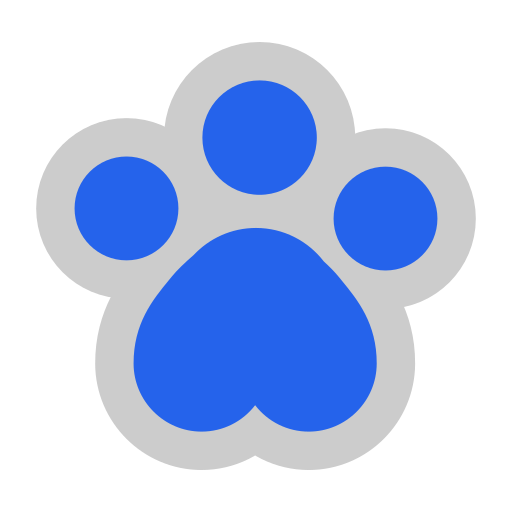
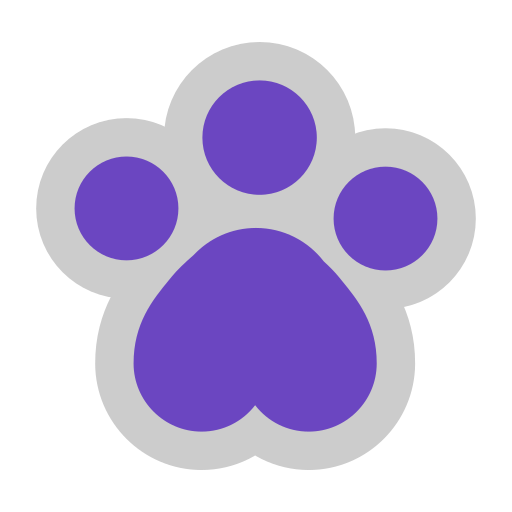
Team scenes: players in full kit (shorts and socks); watermark paw in brand purple

diff --git a/lib/collections/sports-teams.ts b/lib/collections/sports-teams.ts
@@ -232,6 +232,40 @@ export function teamByPath(path: string): SportsTeam | null {
   return SPORTS_TEAMS.find(t => t.league === league && t.slug === slug) ?? null;
 }
 
+/**
+ * Traditional home shorts and socks of the football teams, so players in a whole-scene recolour
+ * wear the full kit (the pet only wears the shirt). Colours only; check against the current kits
+ * if a team changes.
+ */
+const FOOTBALL_KIT: Record<string, { shorts: string; socks: string }> = {
+  arsenal: { shorts: 'white', socks: 'white' },
+  'aston-villa': { shorts: 'white', socks: 'sky-blue' },
+  bournemouth: { shorts: 'black', socks: 'black' },
+  brentford: { shorts: 'black', socks: 'red' },
+  brighton: { shorts: 'white', socks: 'white' },
+  chelsea: { shorts: 'royal-blue', socks: 'white' },
+  'coventry-city': { shorts: 'sky-blue', socks: 'sky-blue' },
+  'crystal-palace': { shorts: 'blue', socks: 'blue' },
+  everton: { shorts: 'white', socks: 'white' },
+  fulham: { shorts: 'black', socks: 'white' },
+  'hull-city': { shorts: 'black', socks: 'amber' },
+  'ipswich-town': { shorts: 'white', socks: 'blue' },
+  'leeds-united': { shorts: 'white', socks: 'white' },
+  liverpool: { shorts: 'red', socks: 'red' },
+  'manchester-city': { shorts: 'white', socks: 'sky-blue' },
+  'manchester-united': { shorts: 'white', socks: 'black' },
+  'newcastle-united': { shorts: 'black', socks: 'black' },
+  'nottingham-forest': { shorts: 'white', socks: 'red' },
+  sunderland: { shorts: 'black', socks: 'red' },
+  'tottenham-hotspur': { shorts: 'navy', socks: 'white' },
+};
+
+/** "red shirt with white trim, red shorts and red socks" for players; the shirt alone otherwise */
+export function playerKit(t: SportsTeam): string {
+  const k = t.league === 'premier-league' ? FOOTBALL_KIT[t.slug] : undefined;
+  return k ? `${t.kit}, ${k.shorts} shorts and ${k.socks} socks` : t.kit;
+}
+
 const withArticle = (s: string) => `${/^[aeiou]/i.test(s) ? 'an' : 'a'} ${s}`;
 const NO_MARKS_SCENE = 'No club crests, badges, sponsor names, kit-maker logos or league patches anywhere in the picture: not on the pet, the players or the fans. All fabric is plain apart from colours, stripes and the shirt lettering.';
 
@@ -246,7 +280,7 @@ export function sceneRecolour(t: SportsTeam, pets = 1): string {
   return [
     `Recolour this whole ${sport} scene to ${t.short} colours (${colours}).`,
     `${whose} ${t.league === 'premier-league' ? 'shirt' : 'kit'} becomes ${withArticle(t.kit.replace(/^(an?|the)\s+/i, ''))}, keeping the same cut, collar, folds and fit${pets > 1 ? ', all in the same kit' : ''}; a scarf, if there is one, takes ${colours} bar stripes.`,
-    `Every player in the picture wears the same ${t.short} kit. Fans in the crowd wear ${t.short} shirts and scarves in ${colours}; flags and banners are in ${colours} too.`,
+    `Every player in the picture wears the full ${t.short} kit: ${playerKit(t)}, all exactly the same, with no players in any other colours. Fans in the crowd wear ${t.short} shirts and scarves in ${colours}; flags and banners are in ${colours} too.`,
     `Keep any name and number on the pet's shirt exactly as they are (same letters, digits, font, size and position), recoloured to a colour from ${colours} that stands out clearly against the new shirt (on stripes, a thin outline in the other team colour is fine). The lettering stays painted with the same loose brushwork and soft edges as the rest of the picture, bending with the fabric; it must not look crisp, printed or pasted on.`,
     `Keep every animal exactly as it is (breed, face, fur, markings, expression, pose and place in the picture), and keep the stadium, lighting, composition and painting style unchanged. Change only the colours of clothing, scarves and flags.`,
     NO_MARKS_SCENE,

diff --git a/lib/watermark.ts b/lib/watermark.ts
@@ -3,19 +3,19 @@
  * (rather than one large mark in the middle). Client-safe.
  *
  * Cloudinary layer, sized relative to the picture so every size looks the same:
- *   l_<paw>.png    the blue site paw, right way up (scripts/upload-watermark-paw.ts uploads it)
+ *   l_<paw>.png    the brand-purple site paw (#6B46C1), right way up (scripts/upload-watermark-paw.ts uploads it)
  *   c_scale        each paw ~7% of the picture's width (the PNG has a little padding round it)
  *   c_mpad         spacing between paws (20% × 14% of the width). mpad, not pad: pad scales the
  *                  paw up to fill the space, which made the paws ~3× too big
  *   a_-20          a slight tilt
  *   fl_tiled       repeated over the whole picture
  * Tune with CLOUDINARY_WATERMARK_TILE_OPACITY (default 18), _TILE_SIZE (0.07), _TILE_GAP (0.2),
- * and CLOUDINARY_WATERMARK_TILE_ID (default pawtraits_watermark_paw).
+ * and CLOUDINARY_WATERMARK_TILE_ID (default pawtraits_watermark_paw_purple).
  */
 const num = (v: string | undefined, d: number) => { const n = Number(v); return Number.isFinite(n) && n > 0 ? n : d; };
 
 export function watermarkTiles(): string {
-  const id = (process.env.CLOUDINARY_WATERMARK_TILE_ID || 'pawtraits_watermark_paw').replace(/\//g, ':').replace(/\.(png|svg|jpg)$/i, '');
+  const id = (process.env.CLOUDINARY_WATERMARK_TILE_ID || 'pawtraits_watermark_paw_purple').replace(/\//g, ':').replace(/\.(png|svg|jpg)$/i, '');
   const opacity = Math.round(num(process.env.CLOUDINARY_WATERMARK_TILE_OPACITY, 18));
   const size = num(process.env.CLOUDINARY_WATERMARK_TILE_SIZE, 0.07);
   const gap = num(process.env.CLOUDINARY_WATERMARK_TILE_GAP, 0.2);

diff --git a/scripts/upload-watermark-paw.ts b/scripts/upload-watermark-paw.ts
@@ -1,6 +1,6 @@
 /**
- * Uploads the watermark paw (public/assets/watermarks/pawtraits-paw.png: the blue site paw,
- * right way up) to Cloudinary as "pawtraits_watermark_paw", used by lib/watermark.ts.
+ * Uploads the watermark paw (public/assets/watermarks/pawtraits-paw.png: the brand-purple site paw,
+ * right way up) to Cloudinary as "pawtraits_watermark_paw_purple" (a new name, so pictures already cached with the old blue paw are remade), used by lib/watermark.ts.
  *   npx tsx scripts/upload-watermark-paw.ts
  */
 import { config } from 'dotenv';
@@ -14,6 +14,6 @@ cloudinary.config({
 });
 
 cloudinary.uploader.upload('public/assets/watermarks/pawtraits-paw.png', {
-  public_id: 'pawtraits_watermark_paw', overwrite: true, invalidate: true, resource_type: 'image',
+  public_id: 'pawtraits_watermark_paw_purple', overwrite: true, invalidate: true, resource_type: 'image',
 }).then(r => console.log(`✅ Uploaded ${r.public_id} (${r.width}×${r.height}): ${r.secure_url}`))
   .catch(e => { console.error('❌ Upload failed:', e?.message || e); process.exit(1); });
